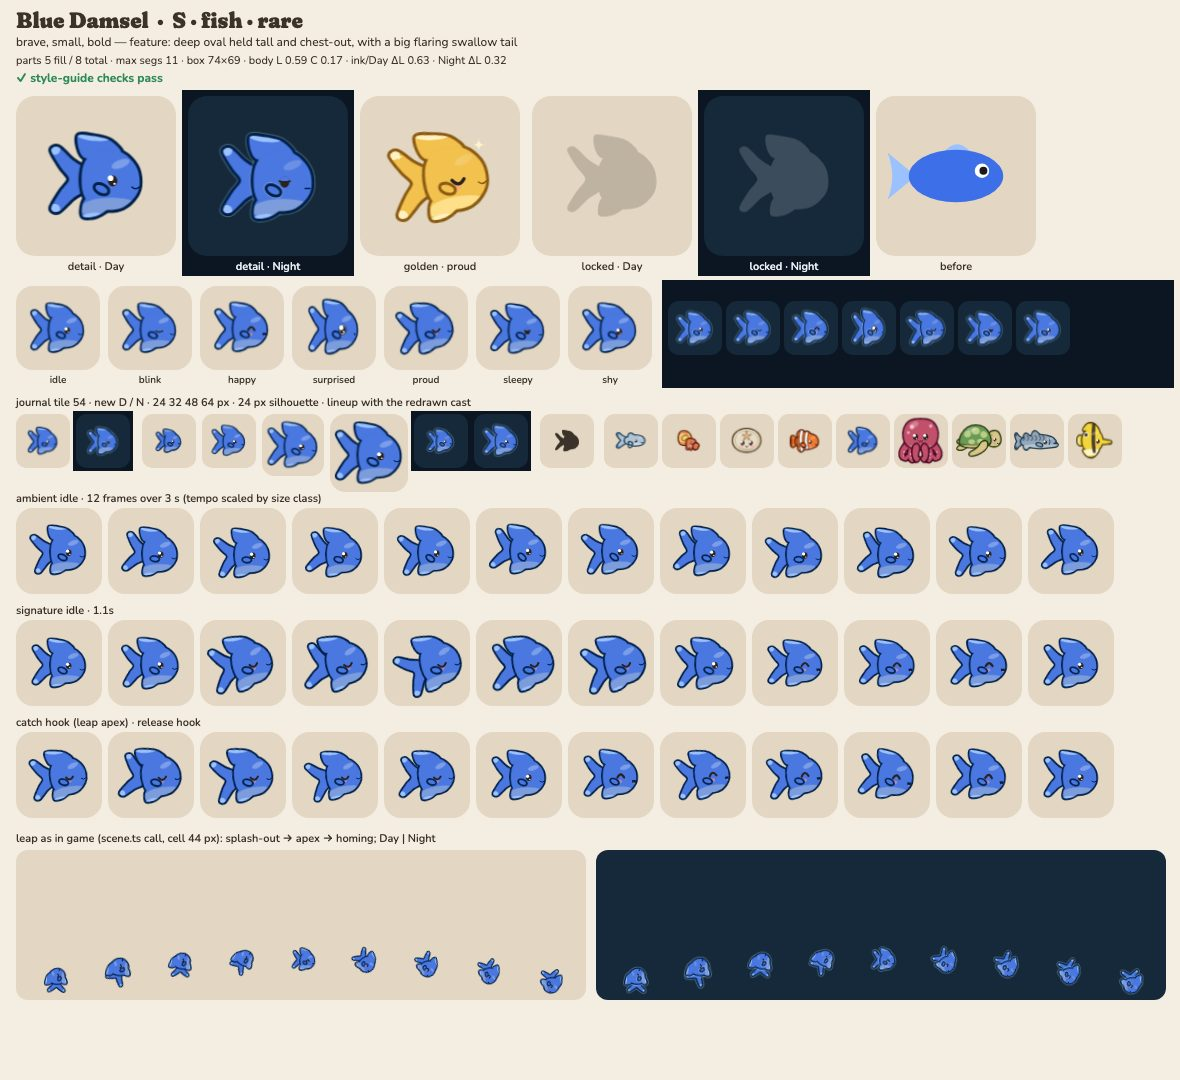
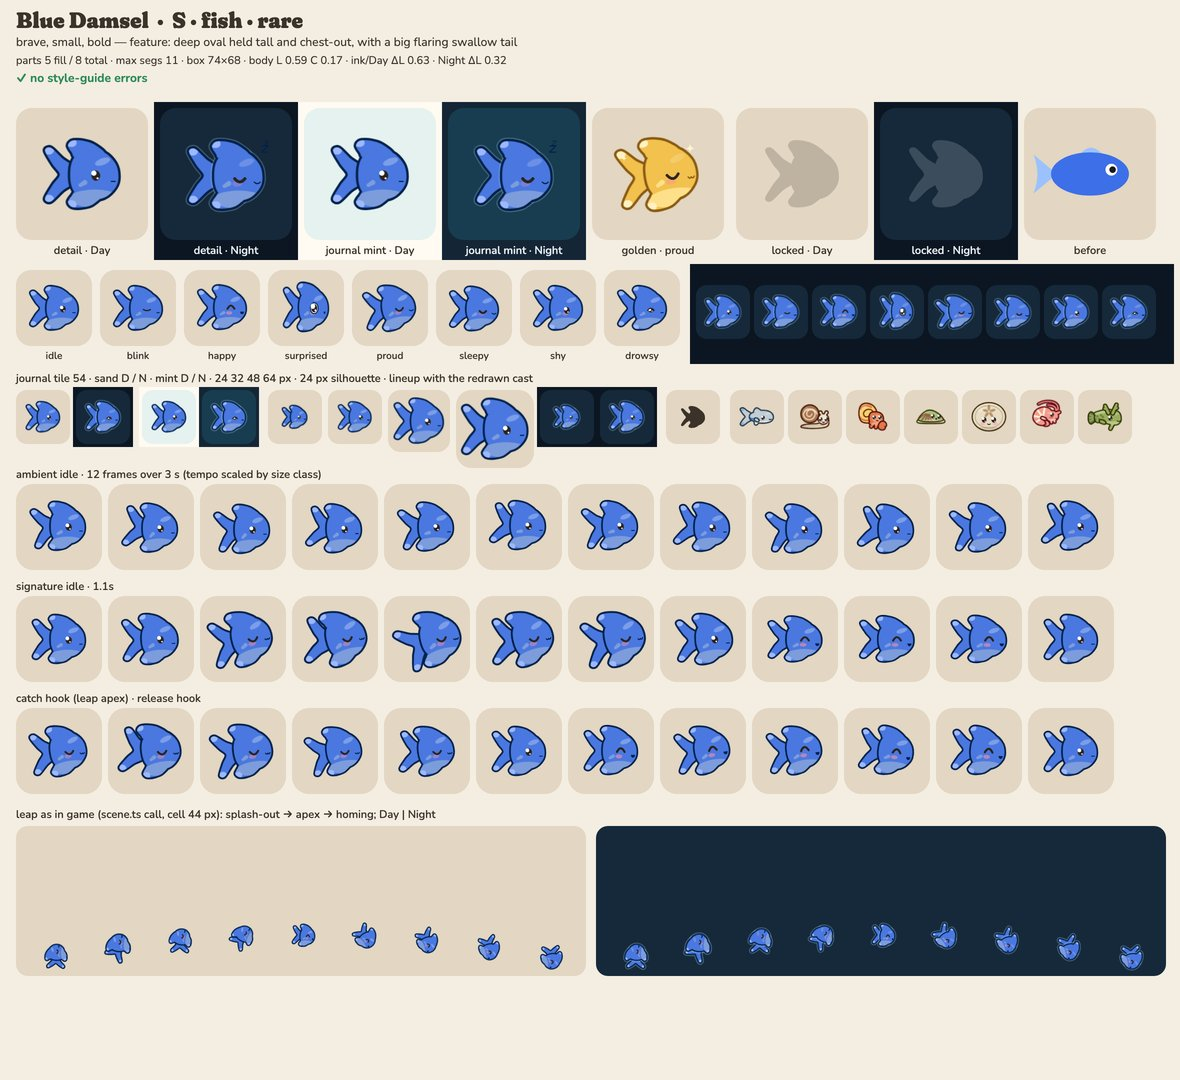
render: damsel art round 3 — tucked pectoral, shorter trailing fins, set little frown (ADR 0011)
CRITIQUE-2: pectoral about -35 %, flat against the flank and swept back (no arm/bar), #9DB8FF
tips on all four trailing points, dorsal/anal no longer parallel the tail lobes (the X read),
eye 10.4, resting mouth = flat frown (brave). Closest: lionfish 0.679, grouper 0.673. Verdict: A-.

diff --git a/src/render/art/species/damsel.ts b/src/render/art/species/damsel.ts
@@ -3,8 +3,8 @@
  * Silhouette (R10): a deep oval body held tall and chest-out (a slight nose-up stance) with a big
  * swallow tail whose two long lobes flare up and down. Deeper than the minnow, forked unlike the
  * clownfish and butterfly.
- * Personality: brave, small, bold. Signature: puffs its chest and charges 4 units at the viewer's
- * finger, then settles, very pleased with itself.
+ * Personality: brave, small, bold; rests with a set little frown (a tiny bouncer). Signature: puffs
+ * its chest and charges 4 units at the viewer's finger, then settles, very pleased with itself.
  */
 import { blob, capsule, defineArt, ellipse, join } from '../kit.ts';
 
@@ -44,10 +44,10 @@ const dorsal = blob(
   [
     [16, -20],
     [6, -30],
-    [-8, -35],
-    [-22, -36],
-    [-27, -31],
-    [-19, -23],
+    [-6, -34],
+    [-17, -34],
+    [-21, -29],
+    [-17, -22],
     [-12, -17],
   ],
   0.9,
@@ -56,18 +56,19 @@ const anal = blob(
   [
     [14, 19],
     [4, 30],
-    [-9, 34],
-    [-22, 34],
-    [-26, 29],
-    [-18, 22],
+    [-7, 33],
+    [-17, 32.5],
+    [-21, 27.5],
+    [-17, 21],
     [-11, 16],
   ],
   0.9,
 );
-const pectoral = capsule(-7, 9, 2.8, -13, 12, 2);
+// a small pectoral tucked flat against the flank, swept 30° back (no hanging arm, no bar)
+const pectoral = capsule(-4, 8, 2.6, -8.5, 10.6, 1.9);
 // pale-blue fin tips (accent)
 const tips = join(ellipse(-42, -27, 8, 6, 40), ellipse(-42, 27, 8, 6, -40));
-const finTips = join(ellipse(-24, -34, 9, 6, 20), ellipse(-24, 32, 9, 6, -20));
+const finTips = join(ellipse(-19, -33, 7, 5, 20), ellipse(-19, 31, 7, 5, -20));
 
 export default defineArt({
   id: 'damsel',
@@ -95,14 +96,15 @@ export default defineArt({
         { d: finTips, role: 'accent', kind: 'pattern' },
       ],
     },
-    { id: 'finA', pivot: [-7, 9], parts: [{ d: pectoral, role: 'belly' }] },
+    { id: 'finA', pivot: [-4, 8], parts: [{ d: pectoral, role: 'belly', outline: false }] },
   ],
   shine: ellipse(14, -13, 8, 3.4, -20),
   face: {
     eyes: [[7, 1]],
-    eye: 9.2,
+    eye: 10.4,
     zone: [-6, -25, 36, 44],
-    mouth: { at: [26, 6], w: 6, shape: 'smile' },
+    // brave: the chest-out little frown of a tiny bouncer (CRITIQUE-2 resting mouths)
+    mouth: { at: [24.5, 6.5], w: 6, shape: 'flat' },
   },
   idle: {
     ambient: [
